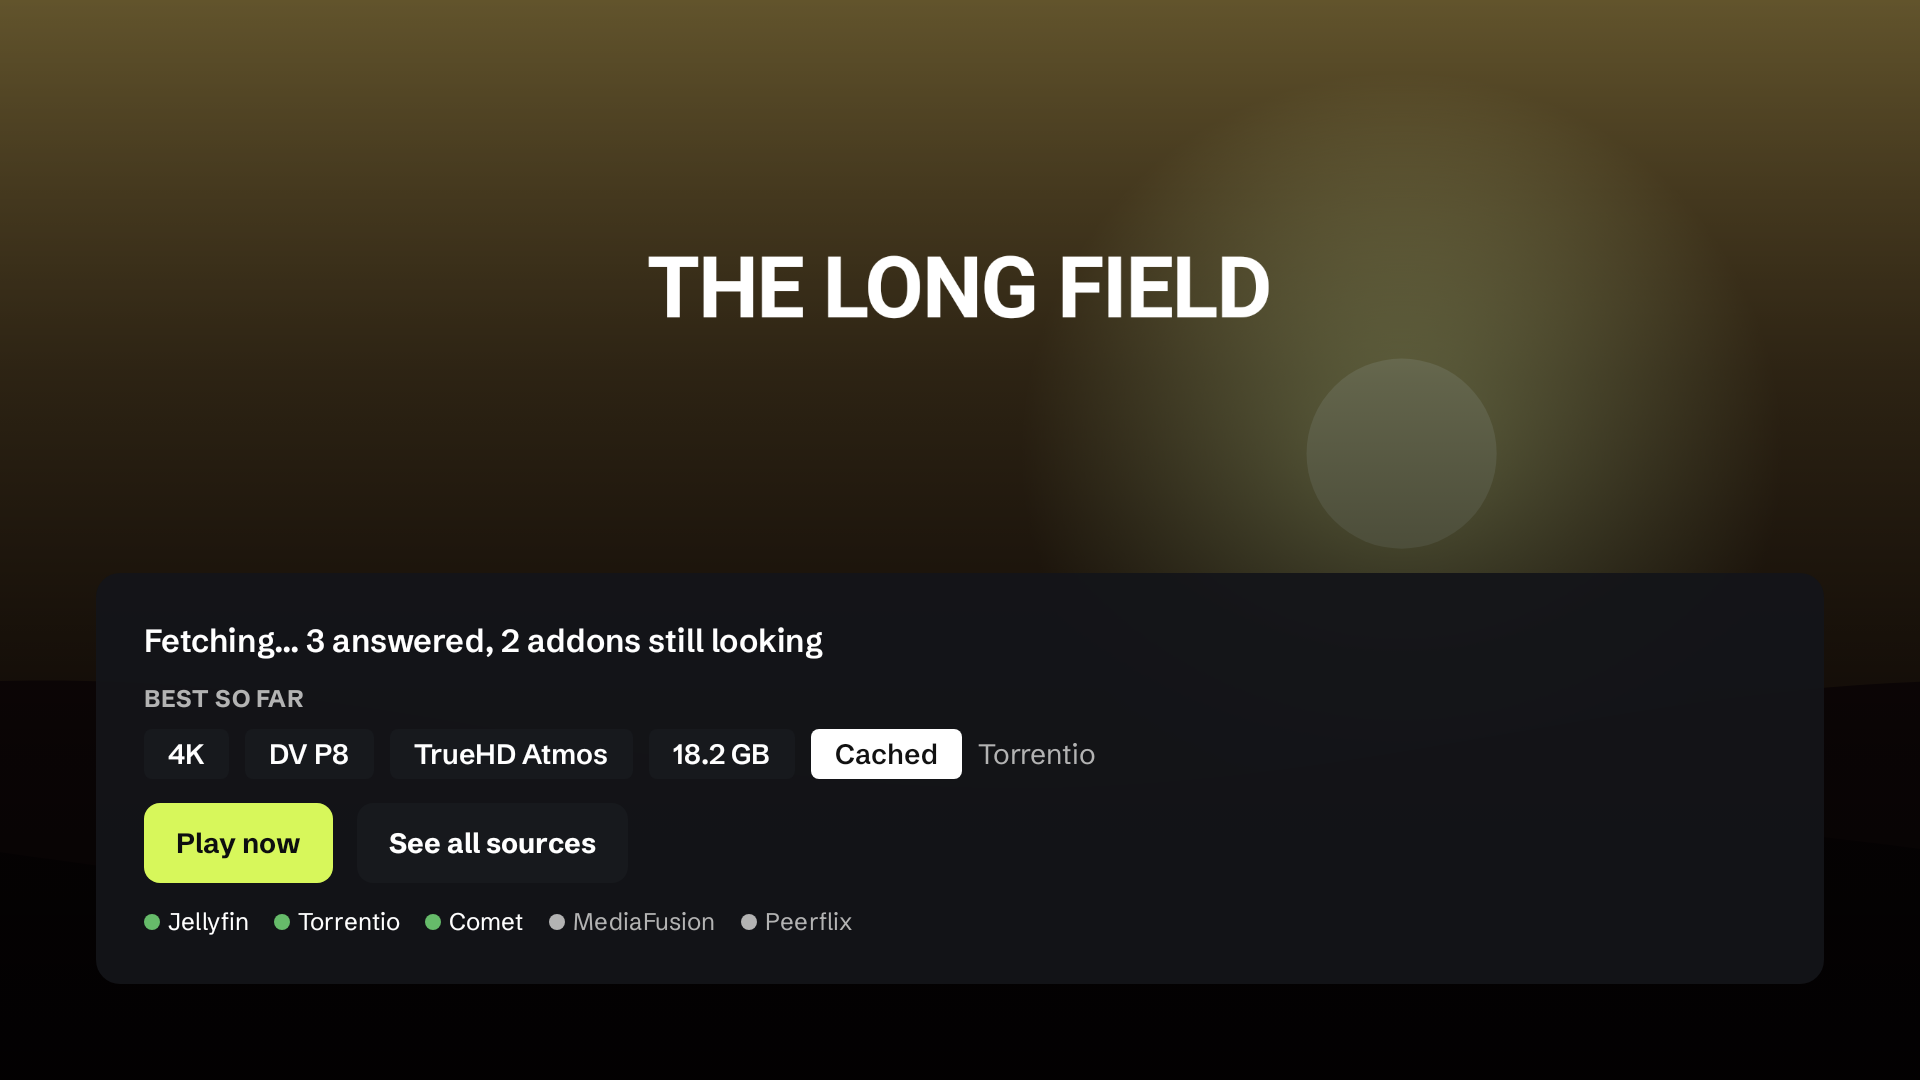
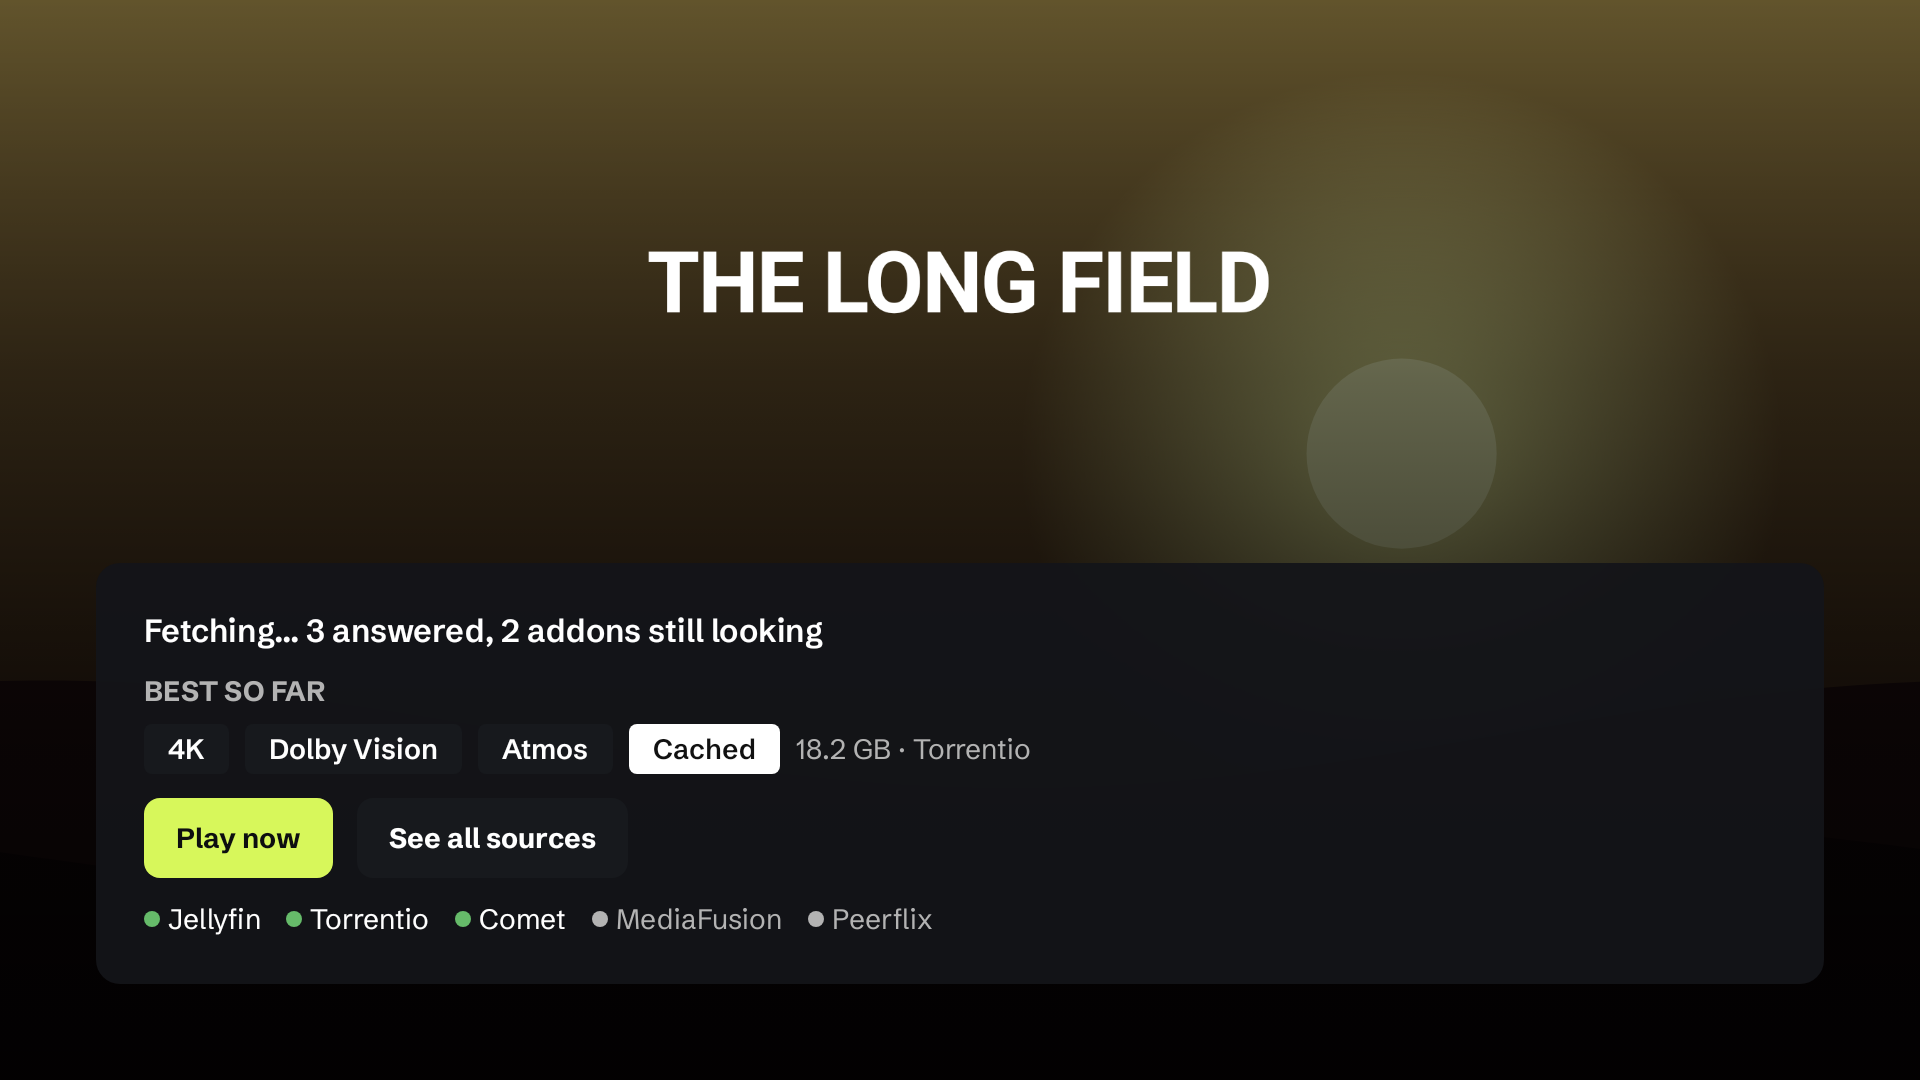
Refresh README screenshots for the redesign pass
The fetching sample now passes the spec and button label cuts that
BestMatchPreviewer makes, so it renders what the app shows.

diff --git a/app/src/test/java/com/fetch/tv/screenshots/ReadmeScreenshots.kt b/app/src/test/java/com/fetch/tv/screenshots/ReadmeScreenshots.kt
@@ -304,7 +304,10 @@ class ReadmeScreenshots {
                 ),
                 bestSoFar = BestMatchPreview(
                     videoId = "tt0000001:2:6",
+                    // The three cuts BestMatchPreviewer makes of one file.
                     labels = listOf("4K", "DV P8", "TrueHD Atmos", "18.2 GB"),
+                    specLabels = listOf("4K", "DV P8", "TrueHD Atmos"),
+                    buttonLabels = listOf("4K", "Dolby Vision", "Atmos"),
                     isCached = true,
                     addonName = "Torrentio",
                     sourceCount = 14,
